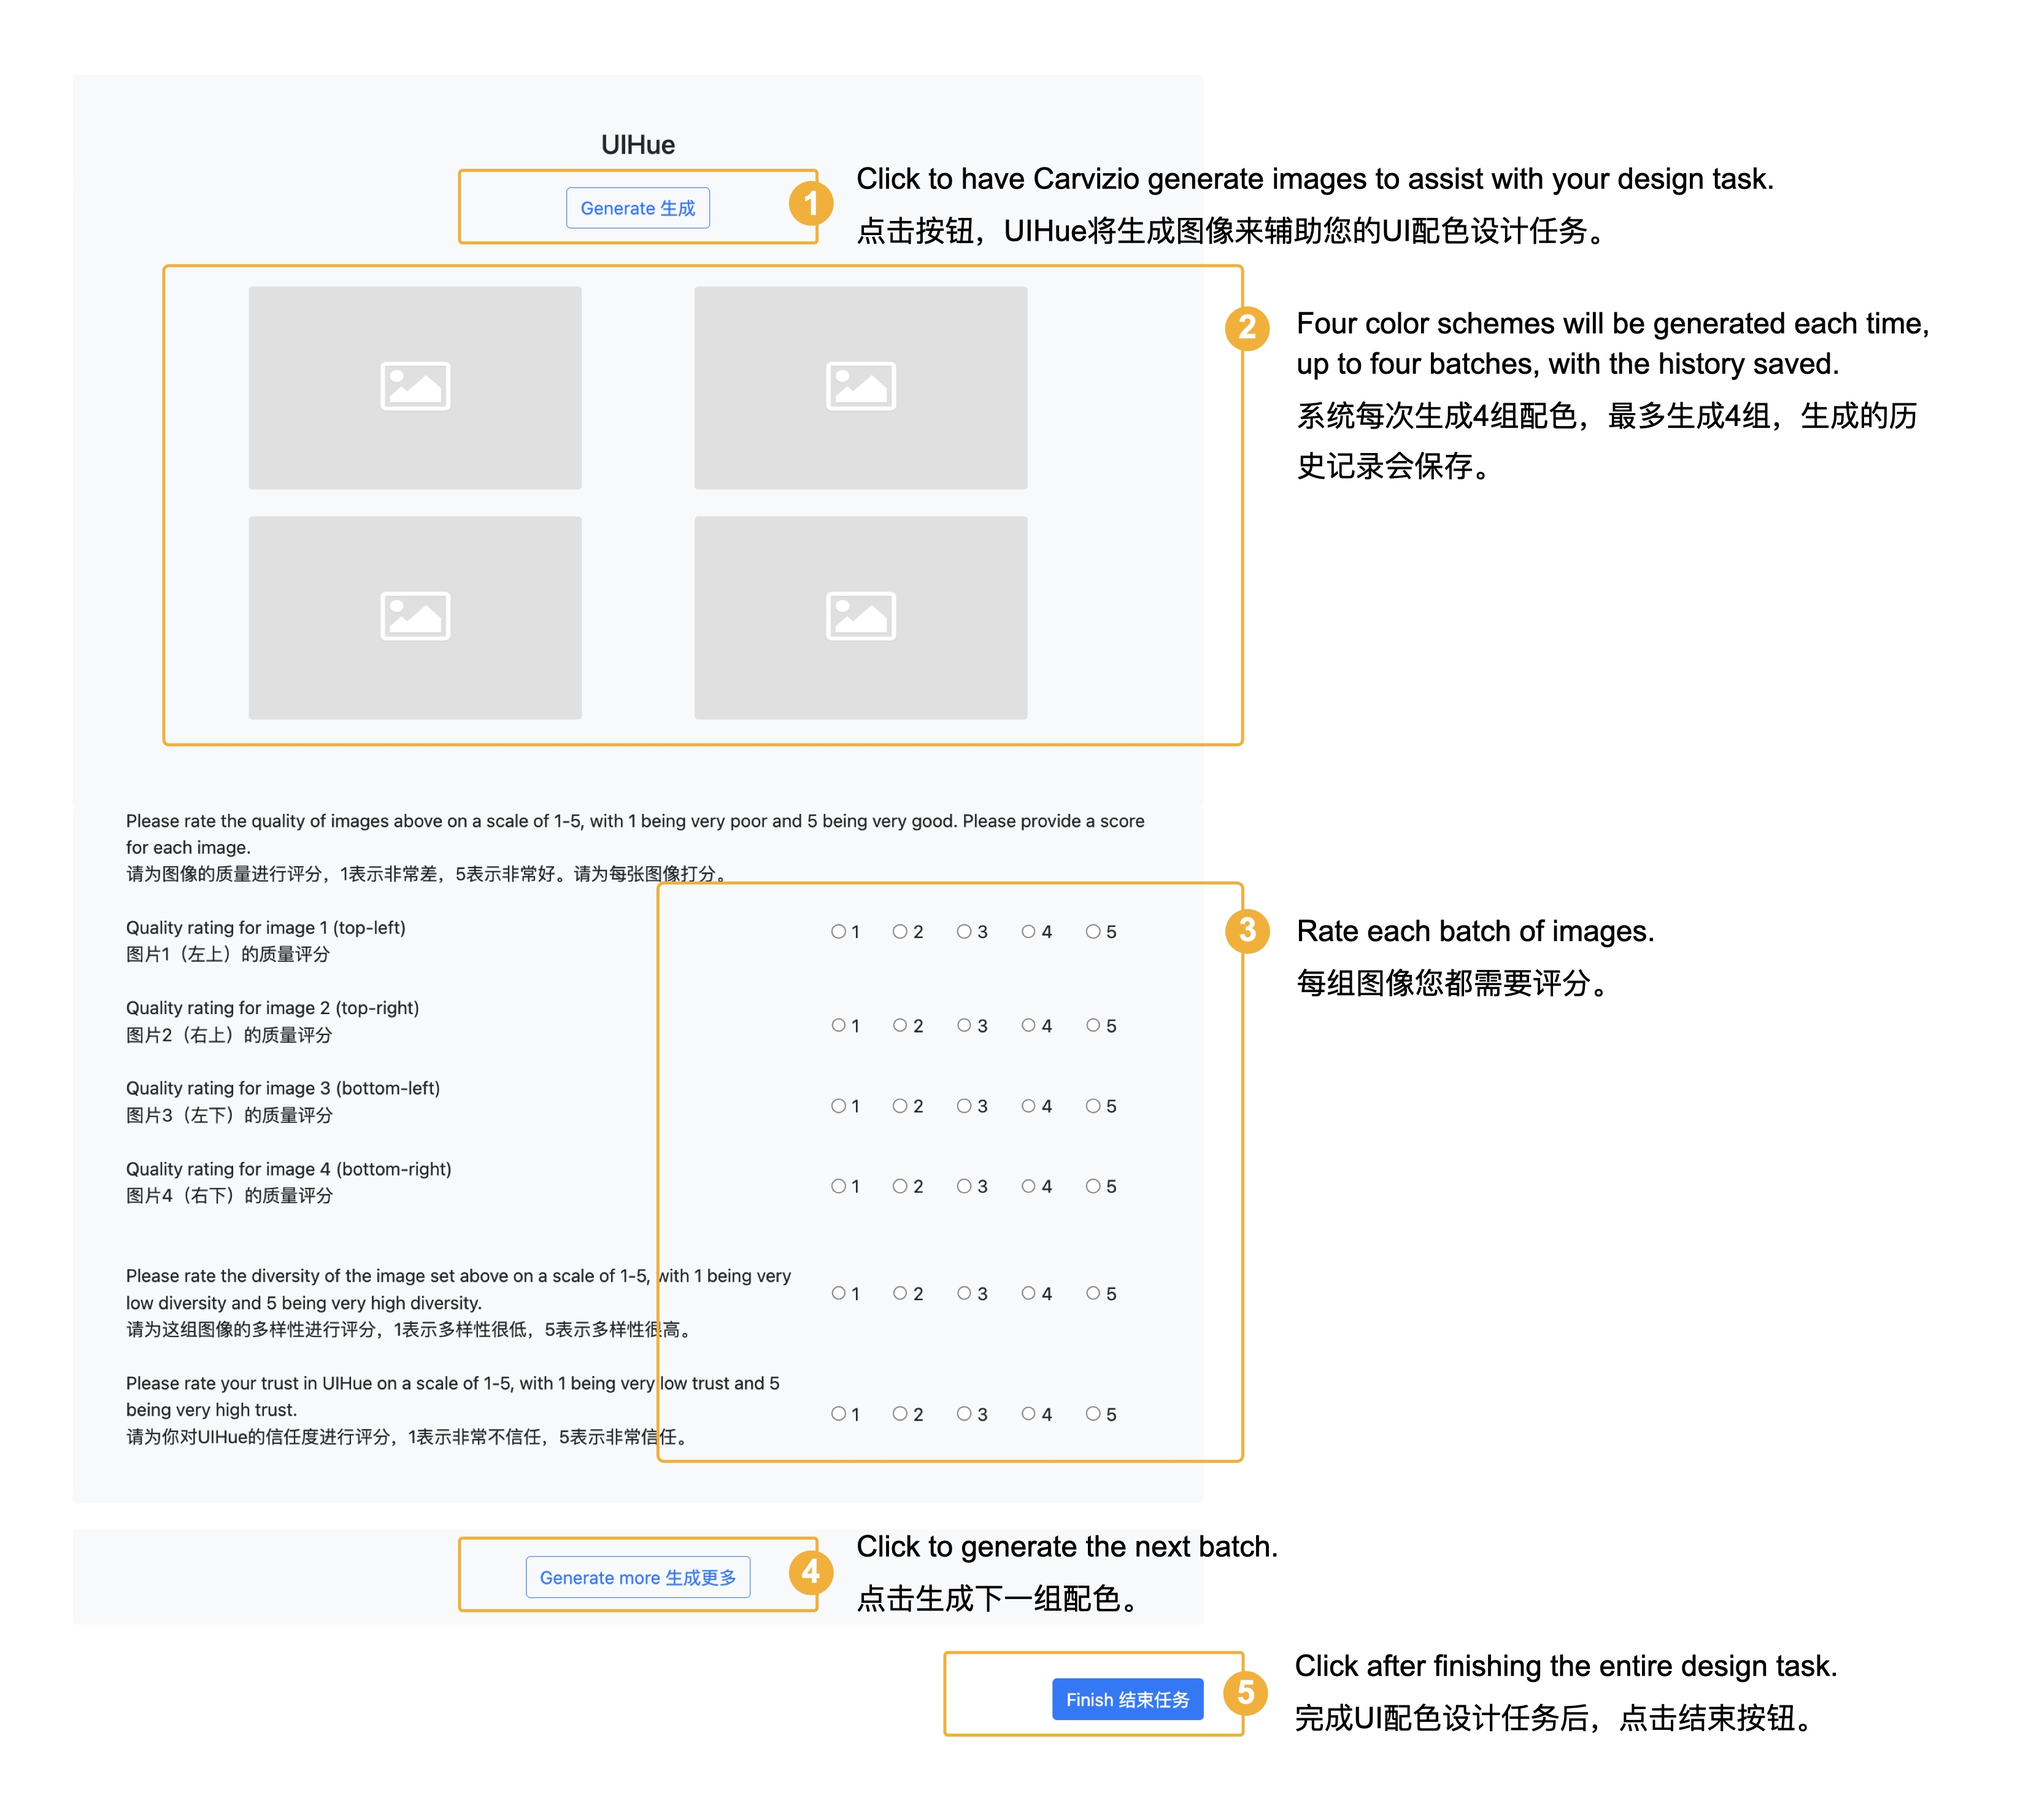
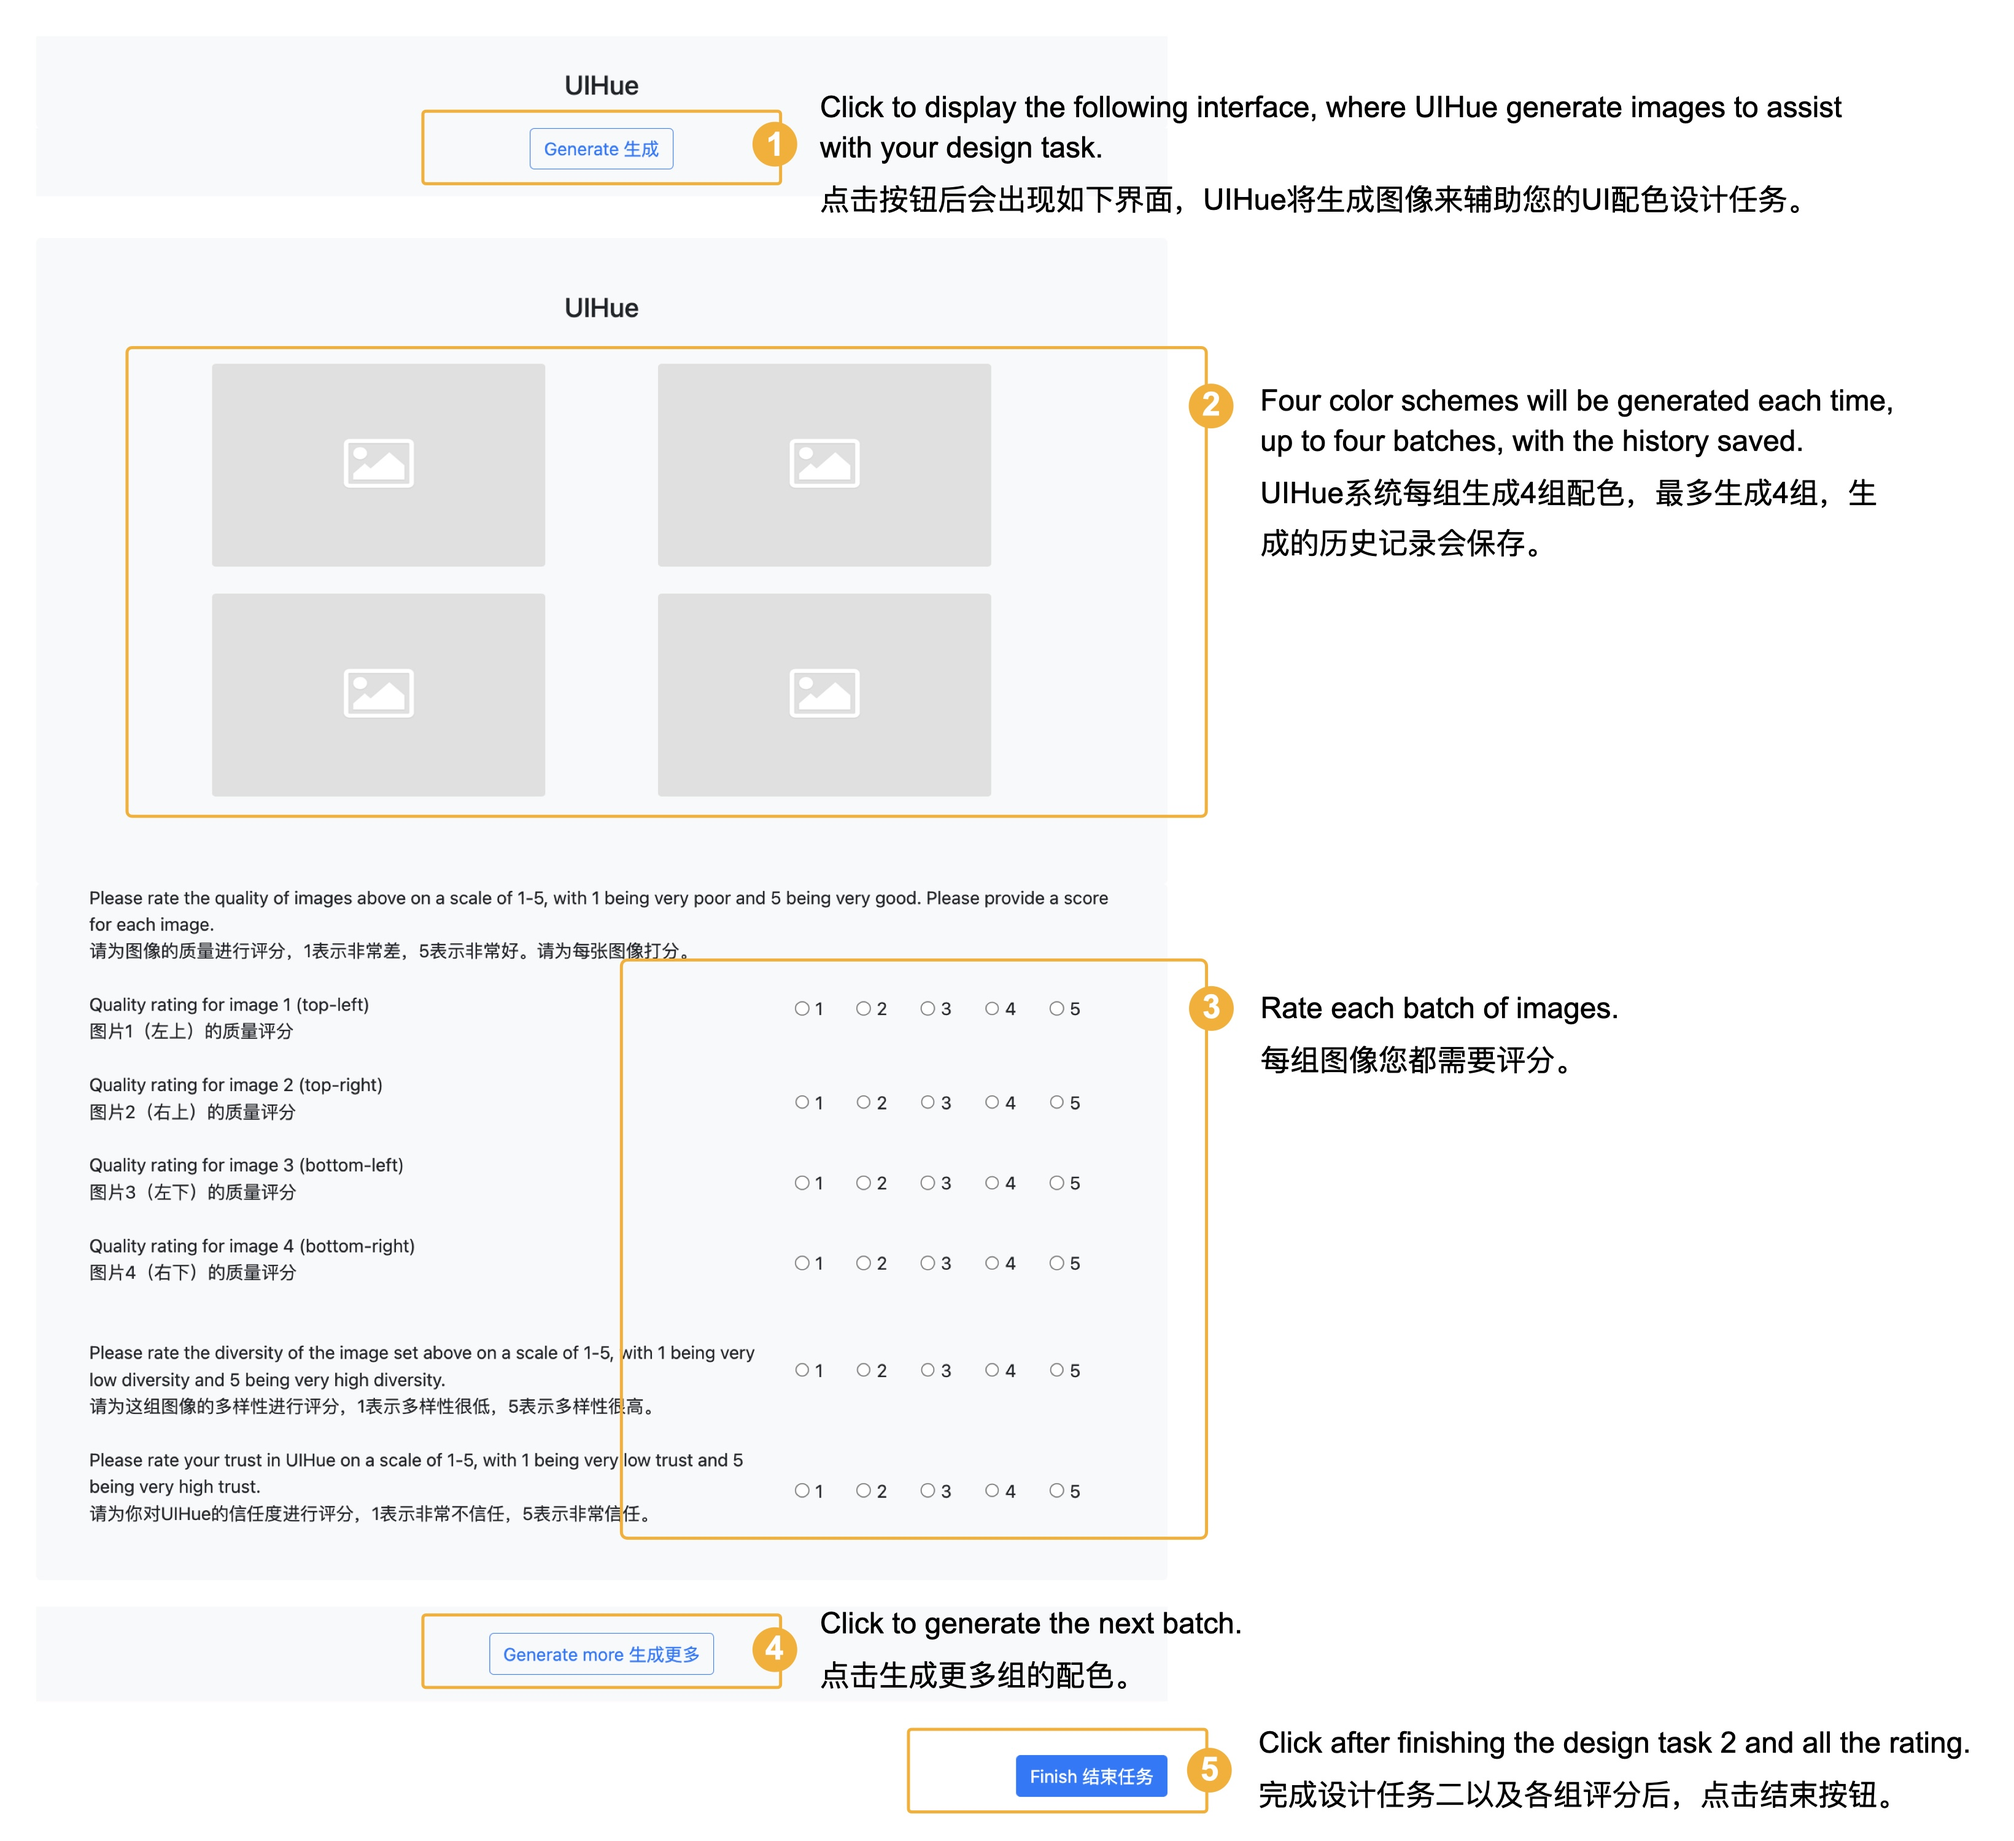
Update tutorial

Changed region(s): [[0.0311, 0.0311, 0.9637, 0.9942]]

diff --git a/Task2.html b/Task2.html
@@ -34,8 +34,8 @@
             <div class="bg-white p-5 rounded"> 
                 <div class="bg-light p-5 rounded">
                     <h5 class="card-title text-left mb-4">Design task&nbsp; <span style="font-size: 0.95em;">设计任务</span></h5>
-                    <p class="card-text text-left mb-2">Design a visually appealing and functional color palette for the specified UI template within 20 minutes. UIHue system below could design color schemes to assist your design. </p>
-                    <p class="card-text text-left">为指定的 UI 模板设计一个美观实用的配色方案。UIHue系统可以生成配色方案以辅助您的设计。</p>
+                    <p class="card-text text-left mb-2">Design <span class="badge text-bg-primary">ONE</span> visually appealing and functional color palette for the specified UI template. UIHue system below could design color schemes to assist your design. </p>
+                    <p class="card-text text-left">为指定的 UI 模板设计<span class="badge text-bg-primary">一个</span>美观实用的配色方案。UIHue系统可以生成配色方案以辅助您的设计。</p>
                     <p class="card-text text-left mb-2">Complete your sketches on the iPad.</p>
                     <p class="card-text text-left">在iPad画板上完成您的草图。</p>
                 </div>

diff --git a/tutorial2.html b/tutorial2.html
@@ -21,8 +21,8 @@
                 <div class="bg-light p-5 rounded">
                     <h5 class="text-left">Task 2 overview&nbsp; <span style="font-size: 0.95em;">任务二概述</span></h5>
                     <p></p>
-                    <p>In this task, you need to design a color scheme for a specified UI template. Your goal is to create a visually appealing and functional color palette.</p>
-                    <p>在这个任务中，您需要为指定的 UI 模板设计配色。您的目标是设计一个既美观又实用的配色方案。</p>
+                    <p>In this task, you need to design <span class="badge text-bg-primary">ONE</span> color scheme for a specified UI template. Your goal is to create a visually appealing and functional color palette.</p>
+                    <p>在这个任务中，您需要为指定的 UI 模板设计<span class="badge text-bg-primary">一种</span>配色方案。您的目标是设计一个既美观又实用的配色。</p>
                     <!-- <h5 class="text-left">Example</h5> -->
                     <p></p>
                 </div>
